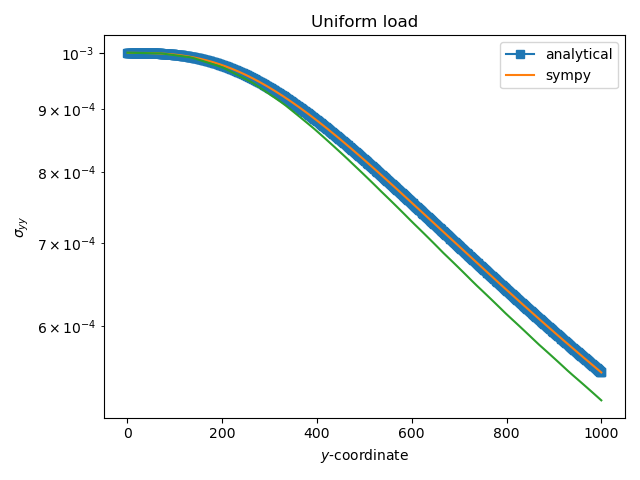
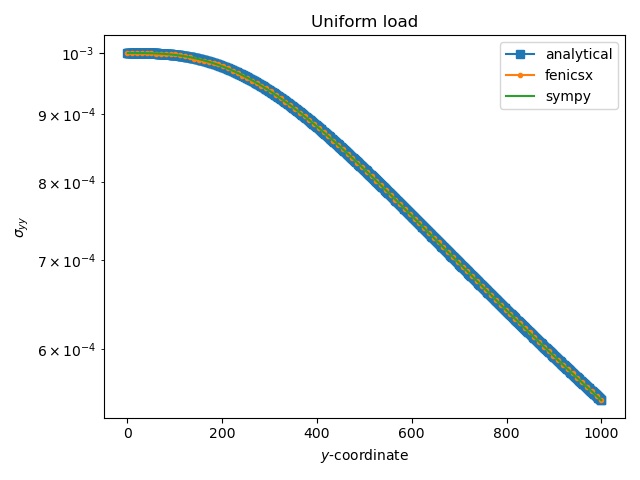
Fixed Dirichlet BCs

diff --git a/fenicsx_scripts/FE_uniform_load.py b/fenicsx_scripts/FE_uniform_load.py
@@ -1,6 +1,7 @@
 import numpy as np
 from ufl import sym, grad, Identity, tr, inner, Measure, TestFunction, TrialFunction
 import ufl
+import petsc4py.PETSc as PETSc
 
 from mpi4py import MPI
 from dolfinx import fem, io, plot
@@ -15,13 +16,14 @@ H = 1e4
 
 a = 500.
 P = -1/(2*a)
-n_el = 50
+n_el = 100
+
 domain = create_rectangle(
     MPI.COMM_WORLD,
     [np.array([-L/2,-H]), np.array([L/2, 0])],
     [n_el,n_el],
     cell_type=CellType.triangle,
-    diagonal= dolfinx.cpp.mesh.DiagonalType.crossed
+    diagonal = dolfinx.cpp.mesh.DiagonalType.crossed
 )
 
 dim = domain.topology.dim
@@ -34,7 +36,7 @@ def left(x):
 def right(x):
     return np.isclose(x[0], L/2, 1e-3)
 def top_f(x): # only for prescribed force
-    return np.isclose(x[1], 0, 1e-3) & ((x[0] > -a) & (x[0] < a))
+    return np.isclose(x[1], 0, 1e-3) & ((x[0] >= -a) & (x[0] <= a))
 def bot(x):
     return np.isclose(x[1], -H, 1e-3)
 
@@ -70,7 +72,7 @@ bcs = [
     fem.dirichletbc(u0y, bot_dofs, V.sub(1))
 ]
 
-#------------Kinematics-----------------#
+#------------------Kinematics-----------------#
 def epsilon(v):
     return sym(grad(v))
 
@@ -88,26 +90,32 @@ def sigma(v):
 
 ds = ufl.Measure("ds", domain=domain, subdomain_data=facet_marker) # measures
 
-t = dolfinx.fem.Constant(domain, (0.0, P)) # traction force
+t = fem.Constant(domain, (0.0, P)) # traction force
+
 # setup function spaces
 u = ufl.TrialFunction(V)
 v = ufl.TestFunction(V)
 # Bilinear form
 a = ufl.inner(sigma(u), epsilon(v)) * ufl.dx 
-L = ufl.inner(t, v) * ds(3) # no body force --  only traction
+L = ufl.dot(t, v) * ds(3) # no body force --  only traction
+
+test = dolfinx.fem.petsc.assemble_vector(dolfinx.fem.form(L))
+print(test[np.nonzero(test[:])])
 
 #--------solve problem------------------#
 uh= fem.Function(V, name="Displacement") 
 problem = fem.petsc.LinearProblem(a, L, u=uh, bcs=bcs)
 problem.solve()
+print('Starting linear solve')
 uh.x.scatter_forward()
-
+print('Linear solve done!')
 #------------Interpolate stress--------------#
 W = fem.functionspace(domain, ('DG', 1))
 sigma_expr = fem.Expression(sigma(uh)[1,1], W.element.interpolation_points()) # only interpolate sigma_yy
 sigma_sol = fem.Function(W)
 sigma_sol.interpolate(sigma_expr)
-sigma_sol.x.scatter_forward
+sigma_sol.x.scatter_forward()
+
 #----------Plotter----------------------#
 pyvista.start_xvfb()
 p = pyvista.Plotter(off_screen=True, window_size=(800, 600), shape=(1,1),
@@ -118,7 +126,7 @@ grid = pyvista.UnstructuredGrid(topology, cells, geometry)
 
 #grid['u'] = uh.x.array.reshape((geometry.shape[0], 2)) # add displacement to plotter
 
-grid.point_data['sigma_yy'] = sigma_sol.x.petsc_vec.array # add stress data
+grid.point_data['sigma_yy'] = sigma_sol.x.array # add stress data
 grid.set_active_scalars('sigma_yy')
 
 p.add_mesh(grid, show_edges=True)
@@ -134,19 +142,18 @@ p = pyvista.Plotter(off_screen=True, window_size=(800, 600), shape=(1,1),
 exclude_entities = facet_marker.find(0)
 marker_idx = np.full_like(facet_marker.values, True, dtype=np.bool_)
 marker_idx[exclude_entities] = False
-print(marker_idx)
+
 topology, cells, geometry = plot.vtk_mesh(domain,facet_marker.dim, facet_marker.indices[marker_idx]) # make sure function space is the same as stress function space
 grid = pyvista.UnstructuredGrid(topology, cells, geometry)
 grid.cell_data["Marker"] = facet_marker.values[marker_idx]
 p.add_mesh(grid)
 p.view_xy()
 
-p.screenshot('fsacets.png')
-
+p.screenshot('facets.png')
 
 #----------Extract solution at x=0------------#
 bb_tree = dolfinx.geometry.bb_tree(domain, domain.topology.dim)
-# points to extrat solution
+# points to extract solution
 y_points = y = np.linspace(0,-1000,100)
 x_points = np.zeros(len(y))
 z_points = np.zeros(len(y))
@@ -170,6 +177,9 @@ cells = np.array(cells, dtype=np.int32)
 sigma_values = sigma_sol.eval(points_on_proc, cells)
 
 print(np.array([y_points,sigma_values.reshape(-1)]))
+
+print(uh.x)
+print(dolfinx.la.norm(uh.x), len(uh.x.array))
 
 np.savetxt('FEA_results.txt',np.array([y_points,sigma_values.reshape(-1)]))
 

diff --git a/compare_sympy.py b/compare_sympy.py
@@ -21,7 +21,7 @@ fig.axes.yaxis.set_inverted(True)
 plt.colorbar(fig)
 plt.title('Uniform load (By hand)')
 
-#--------Compare with sympy solution-----#
+#--------Compare solutions-----#
 p = P/(2*a)
 
 plt.figure()
@@ -35,7 +35,6 @@ plt.title('Uniform load (Sympy)')
 y = np.linspace(0,1000,1000)
 plt.figure()
 plt.semilogy(y,np.abs(sigma_y_uniform(P,a,0,y)), label = 'analytical', marker = 's')
-plt.semilogy(y,np.abs(sym_sigma_y(p,0,y,a)), label = 'sympy')
 plt.title('Uniform load')
 plt.xlabel(r'$y$-coordinate')
 plt.ylabel(r'$\sigma_{yy}$')
@@ -44,6 +43,7 @@ plt.legend()
 
 #--------Compare with FE solution------------#
 fea_sigma_y = np.loadtxt('fenicsx_scripts/FEA_results.txt')
-plt.semilogy(-fea_sigma_y[0,:],np.abs(fea_sigma_y[1,:]), label = 'fenicsx')
-
+plt.semilogy(-fea_sigma_y[0,:],np.abs(fea_sigma_y[1,:]), label = 'fenicsx', marker='o', fillstyle=None, markersize = 3)
+plt.semilogy(y,np.abs(sym_sigma_y(p,0,y,a)), label = 'sympy')
+plt.legend()
 plt.savefig('compare_uniform.png')
